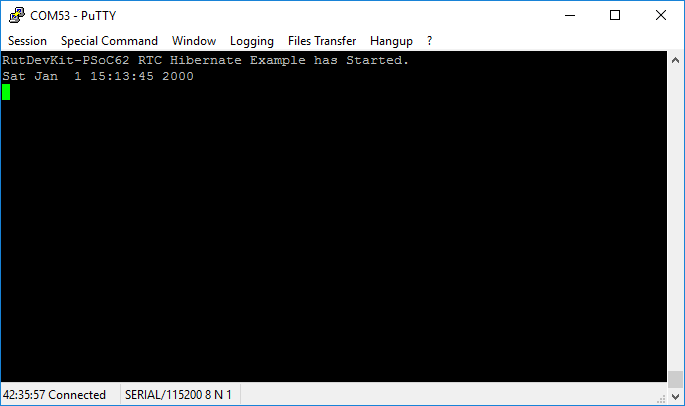
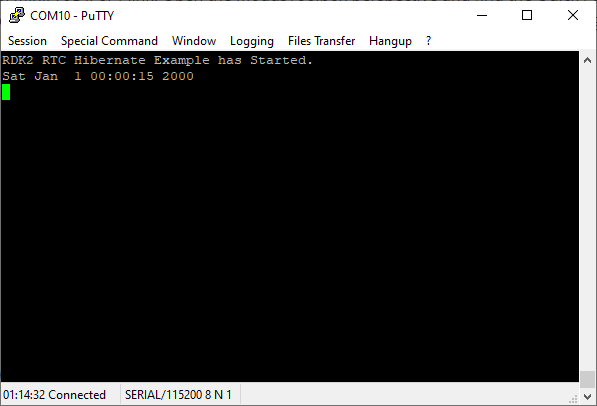
ReadMe.md update.

diff --git a/main.c b/main.c
@@ -96,7 +96,7 @@ int main(void)
         handle_error();
     }
     printf("\x1b[2J\x1b[;H");
-    printf("RutDevKit-PSoC62 RTC Hibernate Example has Started.\r\n");
+    printf("RDK2 RTC Hibernate Example has Started.\r\n");
 
     /* Initialize RTC */
     result = cyhal_rtc_init(&rtc_obj);

diff --git a/README.md b/README.md
@@ -1,4 +1,4 @@
-# RutDevKit-PSoC62 RTC Hibernate Example
+# RDK2 RTC Hibernate Example
 
 Rutronik Development Kit Programmable System-on-Chip CY8C6245AZI-S3D72 "RTC Hibernate" Example. 
 
@@ -6,11 +6,16 @@ This example demonstrates one of the low power modes: hibernation. RTC alarm is 
 
  <img src="images/rutdevkit_model.png" style="zoom:20%;" />
 
+## Requirements
+
+- [ModusToolbox® software](https://www.infineon.com/cms/en/design-support/tools/sdk/modustoolbox-software/) v3.0
+
 ### Using the code example with a ModusToolbox IDE:
 
 1. Import the project: **File** > **Import...** > **General** > **Existing Projects into Workspace** > **Next**.
-2. Select the directory where **"RutDevKit-PSoC62_RTC_Hibernate"** resides and click  **Finish**.
-3. Select and build the project **Project ** > **Build Project**.
+2. Select the directory where **"RDK2_RTC_Hibernate"** resides and click  **Finish**.
+3. Update libraries using  a **"Library Manager"** tool.
+4. Select and build the project **Project ** > **Build Project**.
 
 ### Operation
 
@@ -24,7 +29,7 @@ Every time the system wakes up from the hibernation it starts executing from the
 
 ### Debugging
 
-If you successfully have imported the example, the debug configurations are already prepared to use with a the KitProg3, MiniProg4, or J-link. Open the ModusToolbox perspective and find the Quick Panel. Click on the desired debug launch configuration and wait until the programming completes and debugging starts.
+If you successfully have imported the example, the debug configurations are already prepared to use with a the KitProg3, MiniProg4, or J-link. Open the ModusToolbox perspective and find the Quick Panel. Click on the desired debug launch configuration and wait until the programming completes and the debugging starts.
 
 <img src="images/rtc_debug.png" style="zoom:100%;" />
 
